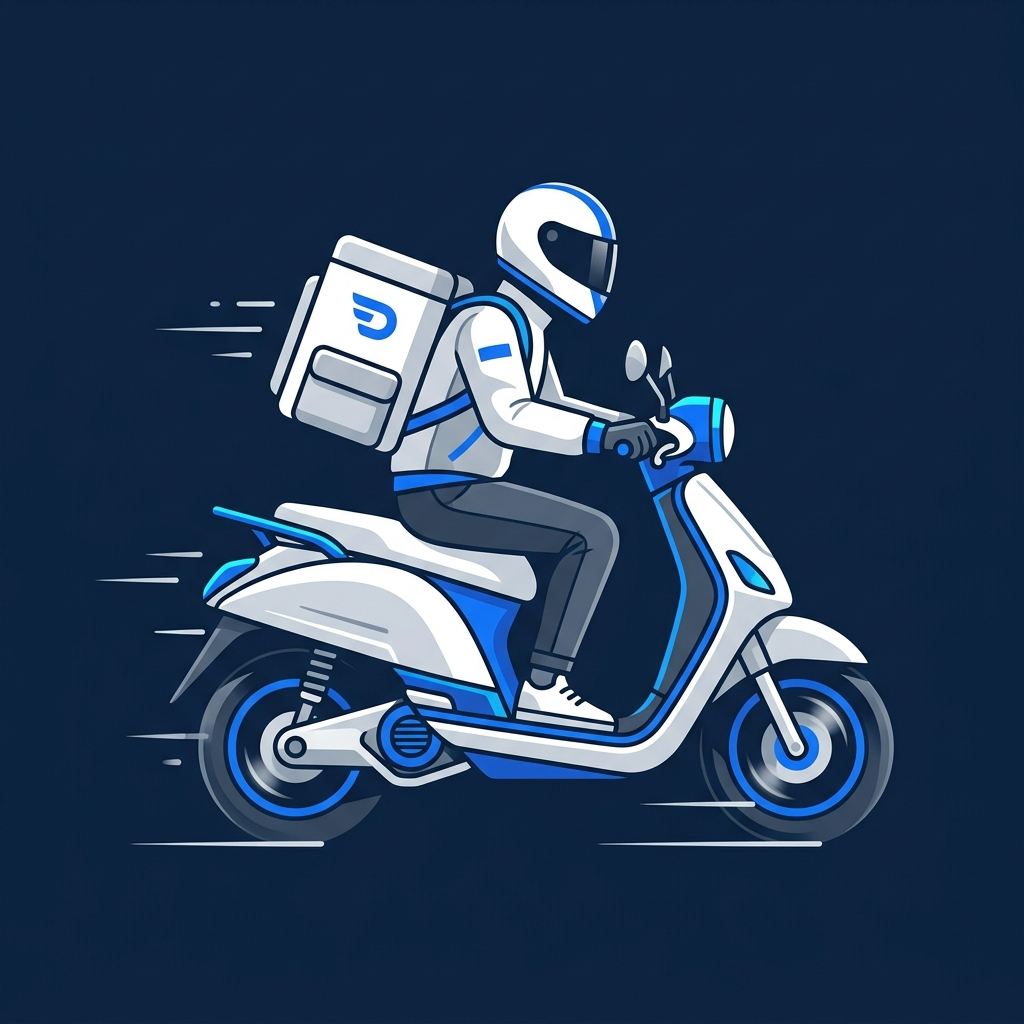
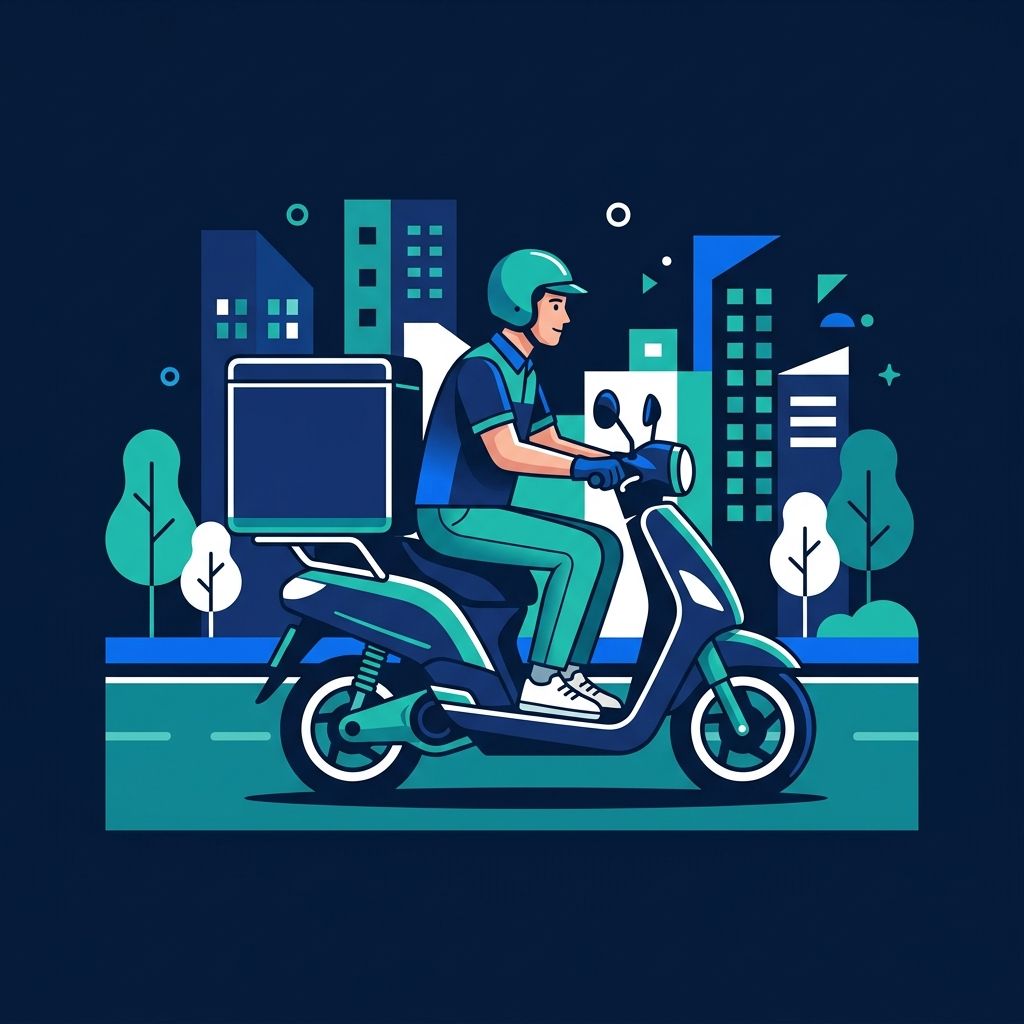
updated hero

diff --git a/devtrails-platform/frontend-pwa/app/components/landing/HeroSection.tsx b/devtrails-platform/frontend-pwa/app/components/landing/HeroSection.tsx
@@ -53,19 +53,17 @@ export function HeroSection() {
               </a>
             </div>
 
-            {/* Platform logos — like Finpay's Klarna/Coinbase row */}
+            {/* Platform logos — realistic wordmarks */}
             <div>
               <p className="text-white/25 text-[11px] uppercase tracking-widest font-medium mb-4">Verified on platforms</p>
-              <div className="flex items-center gap-5 flex-wrap">
+              <div className="flex items-center gap-7 flex-wrap">
                 {platforms.map((p) => (
-                  <div key={p.name} className="flex items-center gap-2 group">
-                    <div
-                      className="w-6 h-6 rounded-md flex items-center justify-center opacity-50 group-hover:opacity-80 transition-opacity"
-                      style={{ backgroundColor: p.color + "22", border: `1px solid ${p.color}40` }}
-                    >
-                      <span className="text-[8px] font-black" style={{ color: p.color }}>{p.name[0]}</span>
-                    </div>
-                    <span className="text-white/35 text-xs font-medium group-hover:text-white/60 transition-colors">{p.name}</span>
+                  <div key={p.name} className="flex items-center group opacity-50 hover:opacity-100 transition-opacity drop-shadow-md">
+                    <svg height="24" width="auto" viewBox={`0 0 ${p.name.length * 14} 24`} className="h-5 md:h-6 w-auto" style={{ fill: p.color }}>
+                      <text x="0" y="18" fontFamily="Arial, Helvetica, sans-serif" fontWeight="900" fontStyle={p.name === 'Zomato' ? 'italic' : 'normal'} fontSize="18" letterSpacing={p.name === 'ONDC' ? '1' : '-0.5'}>
+                        {p.name === 'Swiggy' ? 'SWIGGY' : p.name === 'ONDC' ? 'ONDC' : p.name.toLowerCase()}
+                      </text>
+                    </svg>
                   </div>
                 ))}
               </div>
@@ -73,15 +71,23 @@ export function HeroSection() {
           </div>
 
           {/* Right — Rider Illustration */}
-          <div className="hidden lg:flex justify-center items-center">
-            <Image
-              src="/images/delivery-rider.png"
-              alt="Delivery partner on a scooter"
-              width={440}
-              height={440}
-              className="object-contain drop-shadow-2xl"
-              priority
-            />
+          <div className="hidden lg:flex relative justify-center items-center w-full h-[600px]">
+            {/* Soft backdrop glow to make image pop */}
+            <div className="absolute top-1/2 left-1/2 -translate-x-1/2 -translate-y-1/2 w-[500px] h-[500px] bg-electric/20 rounded-full blur-[100px] pointer-events-none" />
+
+            <div 
+              className="relative z-10 w-full h-full flex justify-center items-center" 
+              style={{ maskImage: 'radial-gradient(circle at center, rgba(0,0,0,1) 50%, rgba(0,0,0,0) 80%)', WebkitMaskImage: 'radial-gradient(circle at center, rgba(0,0,0,1) 50%, rgba(0,0,0,0) 80%)' }}
+            >
+               <Image
+                 src="/images/delivery-rider.png"
+                 alt="Delivery partner on a scooter"
+                 width={550}
+                 height={550}
+                 className="object-contain drop-shadow-2xl"
+                 priority
+               />
+            </div>
           </div>
         </div>
       </div>
